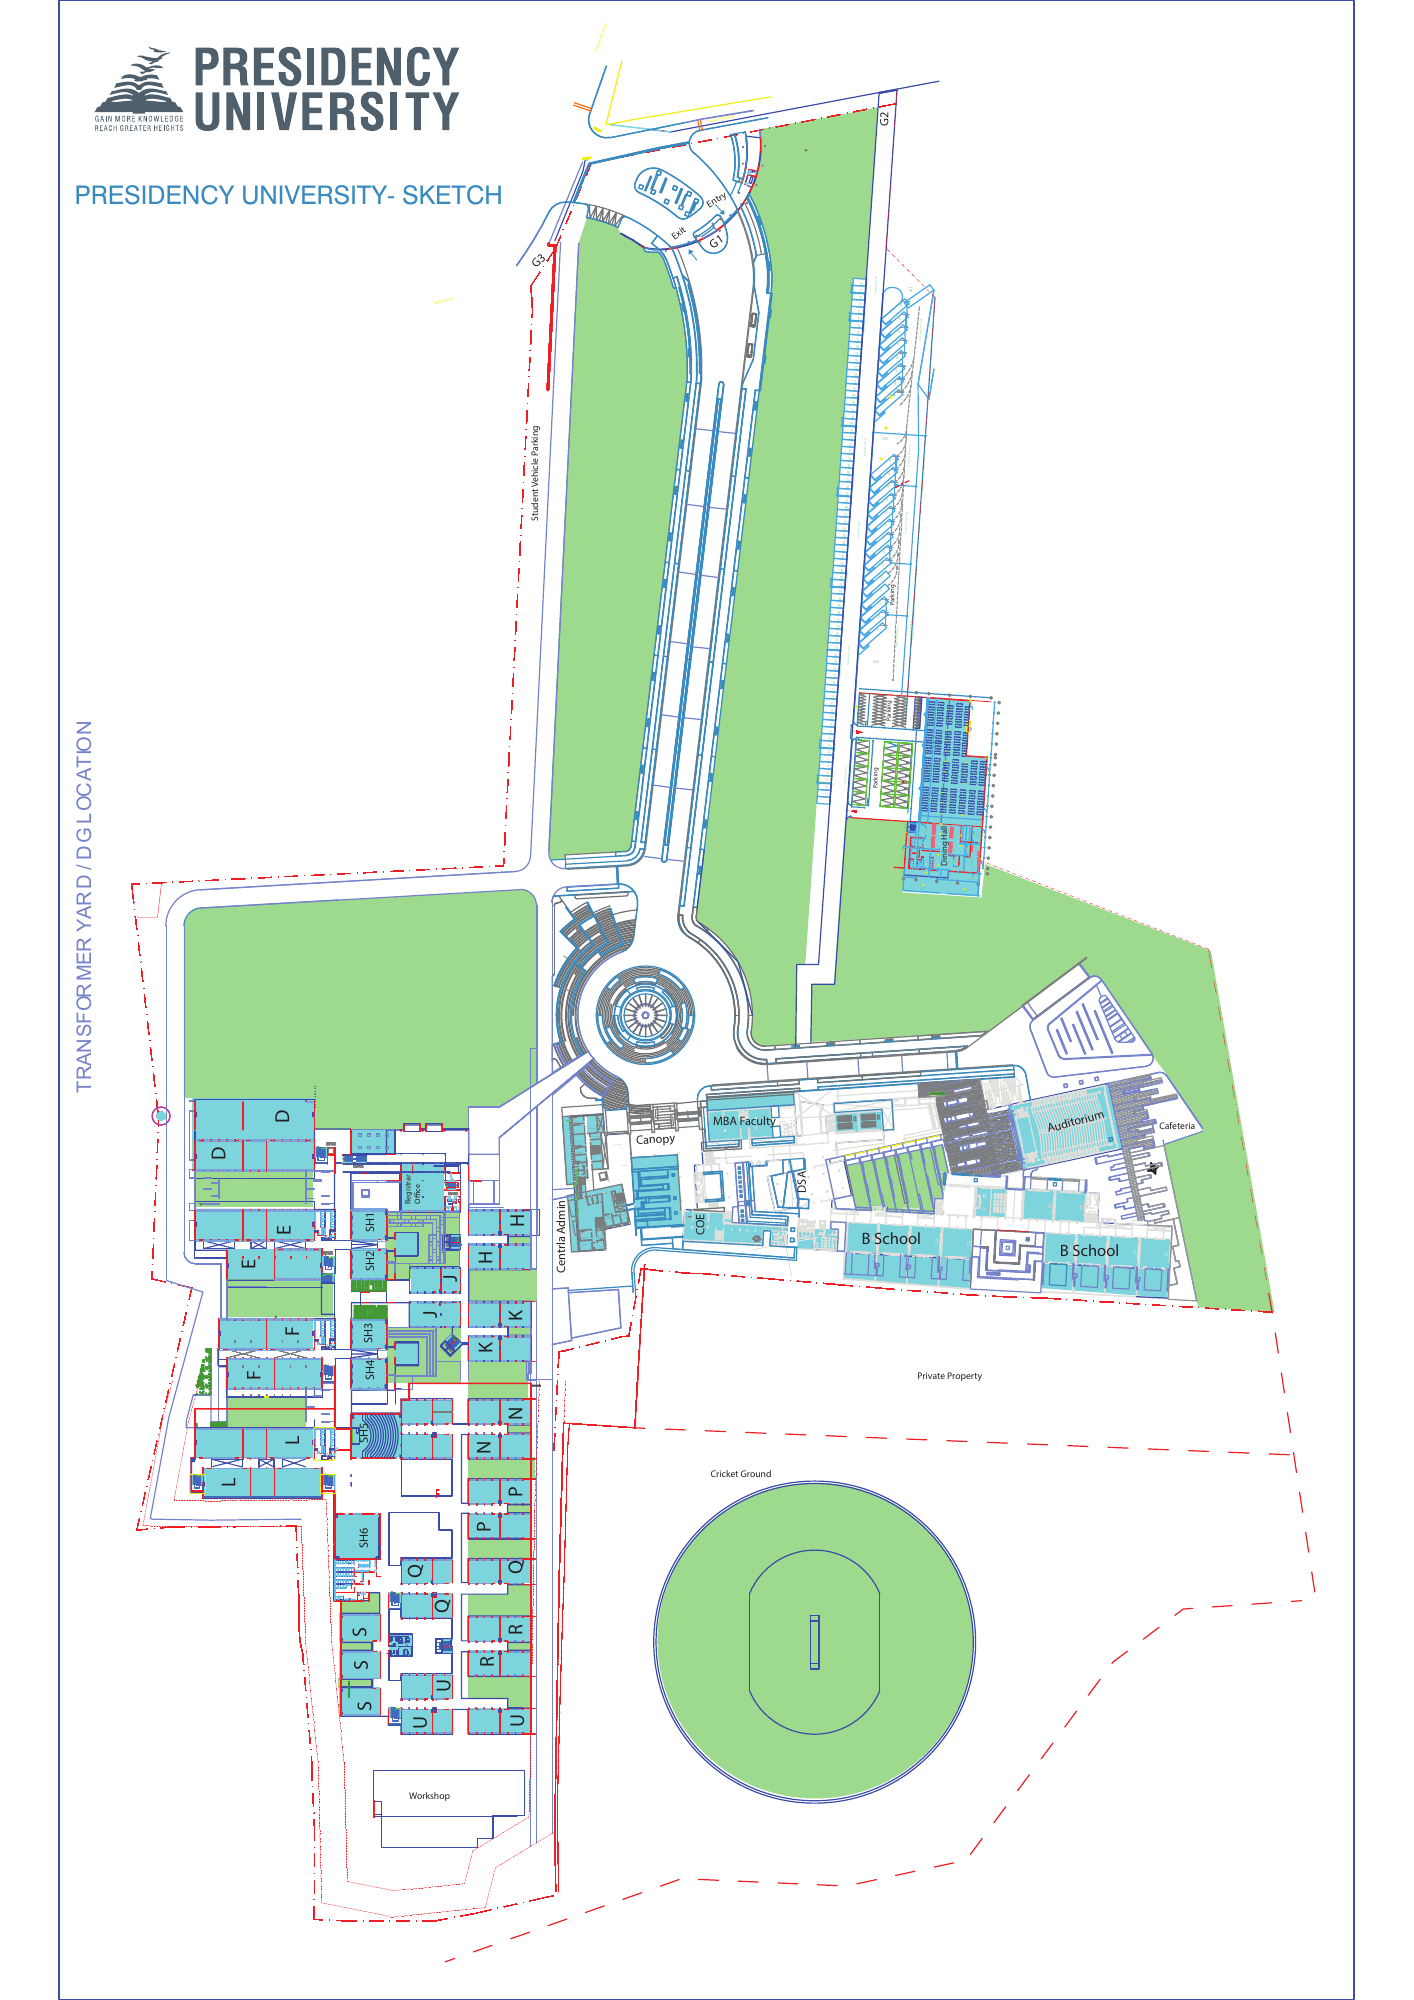
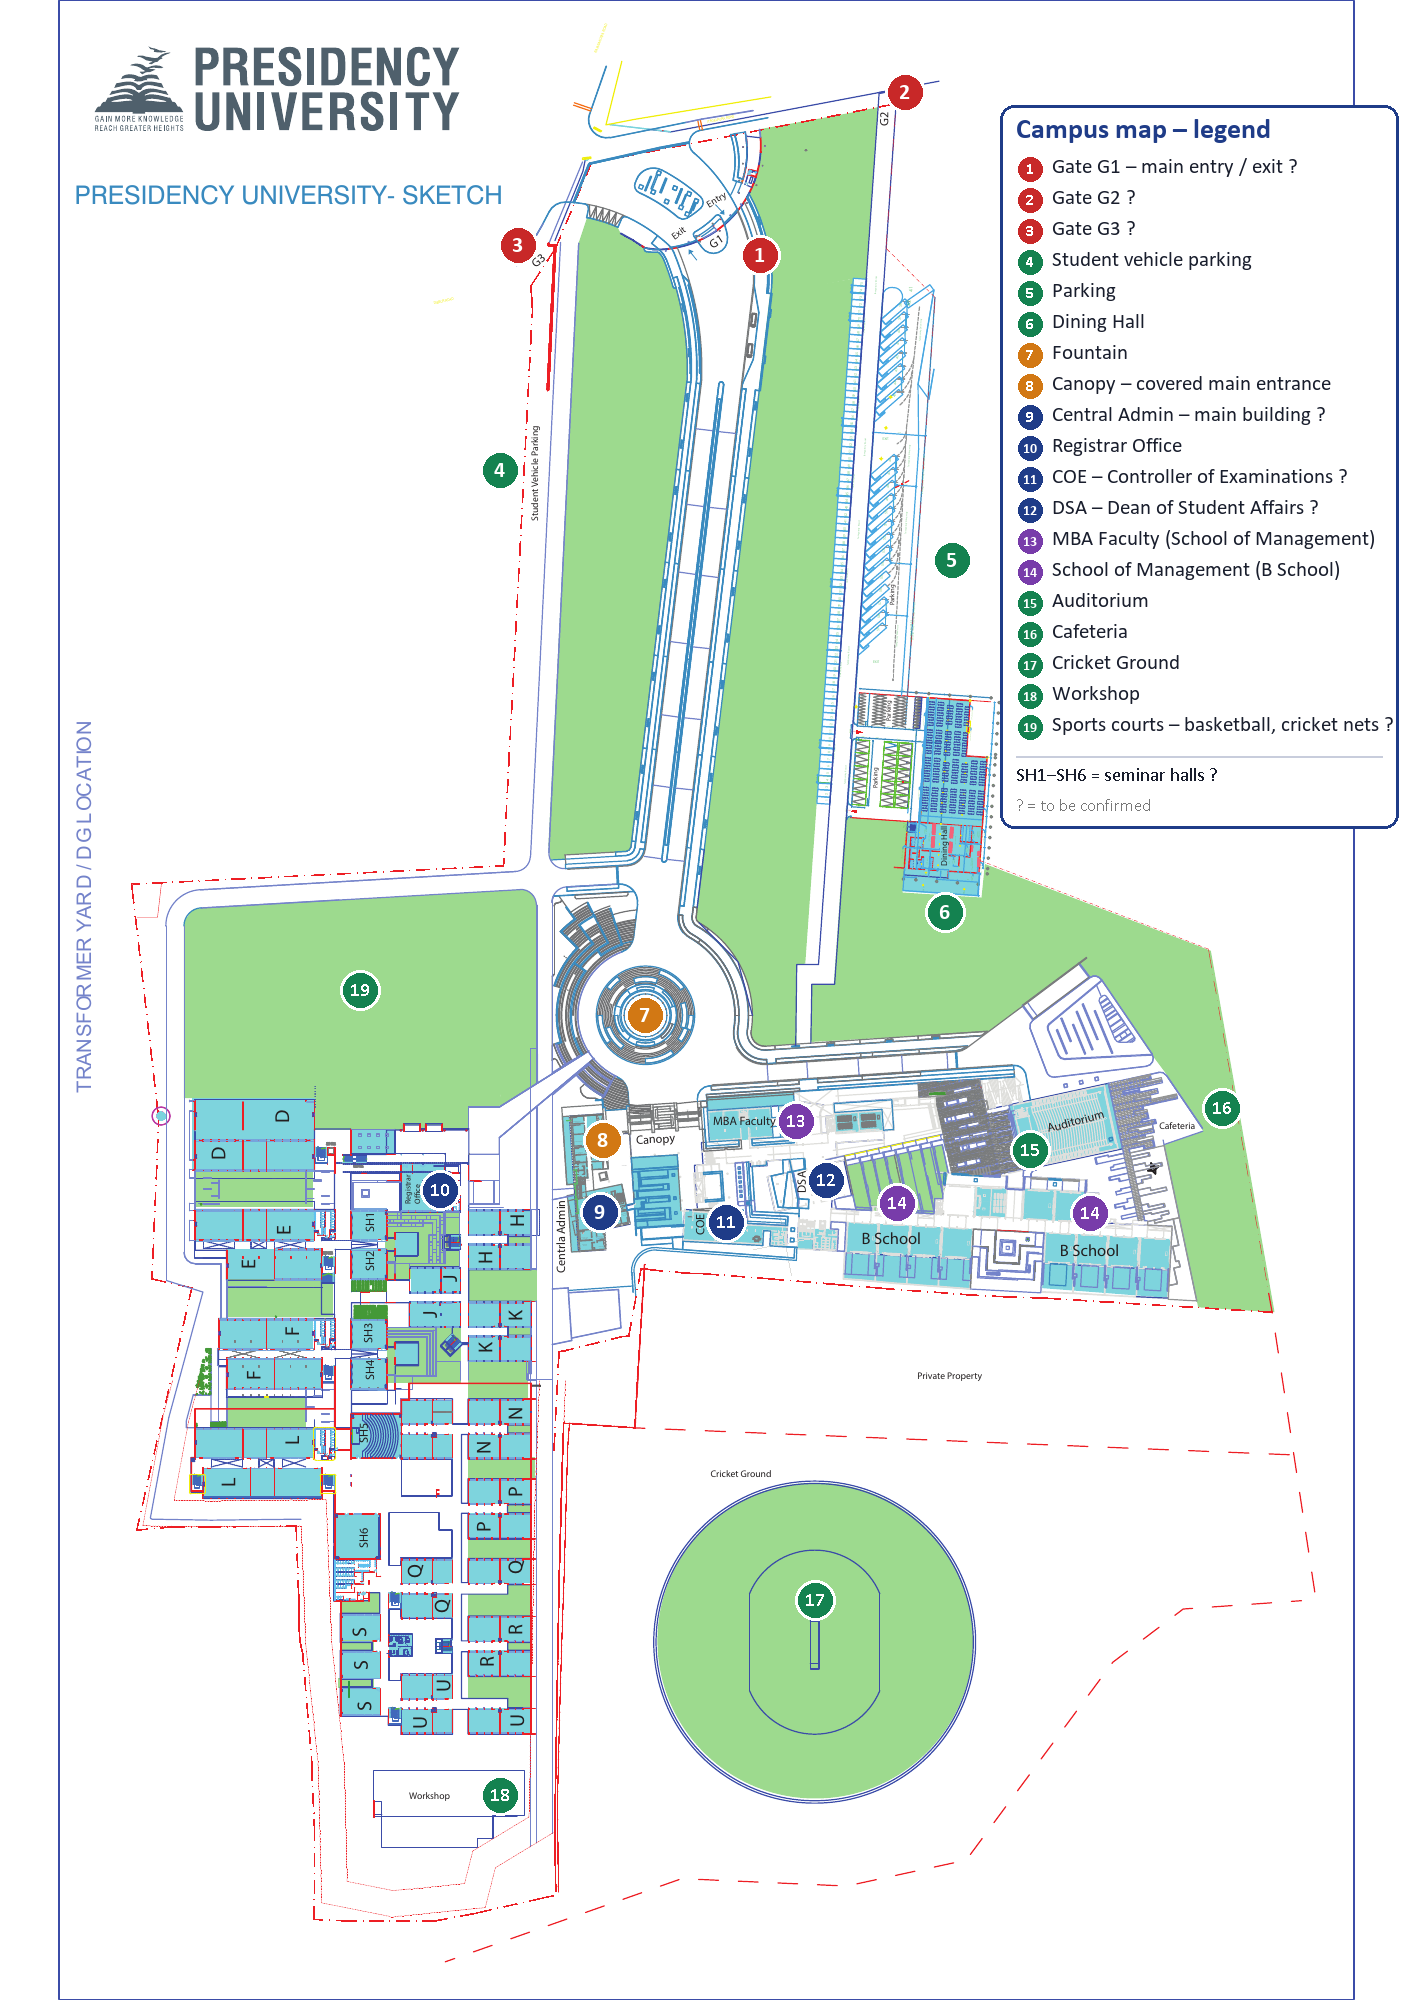
Show the labeled campus map in chat for navigation answers
- campus_map.png: labeled version (19 numbered places + legend, "?" = still to confirm)
- notebook 03: GET /map serves the map (X-API-Key required)
- frontend: answers with used_map show the map in a "Campus map" box
- README: /map endpoint and used_map field

diff --git a/frontend/app.py b/frontend/app.py
@@ -78,6 +78,16 @@ def reset_backend():
         pass
 
 
+@st.cache_data(ttl=300, show_spinner=False)
+def campus_map():
+    """The campus map image from the backend, or None if it has none."""
+    try:
+        r = requests.get(f"{BACKEND_URL}/map", headers=HEADERS, timeout=20)
+        return r.content if r.ok else None
+    except requests.RequestException:
+        return None
+
+
 # ---------------------------------------------------------------- rendering
 def show_message(m):
     if m["role"] == "user":
@@ -95,6 +105,11 @@ def show_message(m):
         if m.get("heard"):
             st.caption(f"🎤 Heard: “{m['heard']}”")
         st.markdown(m["text"])
+        if m.get("used_map"):
+            map_png = campus_map()
+            if map_png:
+                with st.expander("🗺 Campus map", expanded=True):
+                    st.image(map_png, width="stretch")
         sources = m.get("sources") or []
         shown = [s for s in sources if s["cited"]] or sources
         if shown:
@@ -164,7 +179,7 @@ if question is not None and (question or audio is not None):
             try:
                 r = ask_backend(question, image, audio)
                 reply = {"role": "assistant", "text": r["answer"], "sources": r["sources"], "timings": r["timings"],
-                         "heard": r["question"] if r.get("heard") else None}
+                         "heard": r["question"] if r.get("heard") else None, "used_map": r.get("used_map", False)}
             except requests.ConnectionError:
                 reply = {"role": "assistant", "error": "The answer server is offline. "
                                                        "(The GPU notebook 03_backend_api must be running.)"}

diff --git a/README.md b/README.md
@@ -41,7 +41,7 @@ the answer and cites `[1] [2]` the sources it used. The knowledge base can be up
 | Programme- and batch-aware | Asks for programme/batch when rules differ; prefers the newest regulation (e.g. 2025 over 2019) |
 | Image questions | Qwen3-VL reads the uploaded notice/timetable/assignment, transcribes it, then searches for the related rules |
 | Voice questions | Whisper large-v3-turbo turns a voice note into text (keeps the spoken language) |
-| Campus directions | For "where is …" questions the official campus map image is given to the model automatically |
+| Campus directions | For "where is …" questions the labeled campus map is given to the model automatically and shown under the answer in the chat page |
 | Daytime foot traffic | People counts from two campus videos (when recorded, how busy, most people seen at once) |
 | Follow-up questions | Chat history + query rewriting ("and for MBA?" becomes a full search query) |
 | Official vs unofficial | Every source is labelled (official website / official document / student photo / teacher recording …) |
@@ -90,7 +90,7 @@ embed with Qwen3-Embedding → save the FAISS index (`rag_index/`, rebuilt autom
 │   ├── 02_rag_chatbot.ipynb         the chatbot: index, search, voice, image, chat box, tests
 │   ├── 03_backend_api.ipynb         the chatbot as a web API (FastAPI) + public links (Cloudflare / Gradio)
 │   ├── pu_corpus.jsonl.gz           166,180 cleaned chunks (47.7 MB) – the knowledge base
-│   ├── campus_map.png               campus map shown to the model for "where is …" questions
+│   ├── campus_map.png               labeled campus map (numbered places + legend): read by the model and shown in chat for "where is …" questions
 │   └── corpus_stats.json            counts per source
 ├── frontend/                        the students' web page – Docker image for Data Lab / Portainer
 │   ├── app.py                       Streamlit chat page (text, photo, microphone, sources)
@@ -177,7 +177,8 @@ the GPU answers one question at a time, an API key, and upload limits (image 10 
 | Endpoint | Input | Output |
 |---|---|---|
 | `GET /health` | – | `status`, `model`, `chunks`, `busy`, `active_sessions` |
-| `POST /ask` | form `question`, `session_id`; files `image`, `audio` (all optional, but a question or voice note is required); header `X-API-Key` | `answer`, `sources` (title, url, kind, cited), `timings`, `session_id`, `heard` |
+| `POST /ask` | form `question`, `session_id`; files `image`, `audio` (all optional, but a question or voice note is required); header `X-API-Key` | `answer`, `sources` (title, url, kind, cited), `used_map`, `timings`, `session_id`, `heard` |
+| `GET /map` | header `X-API-Key` | `campus_map.png` – the chat page shows it under answers with `used_map: true` |
 | `POST /reset` | form `session_id`; header `X-API-Key` | forgets that student's history |
 
 Run order on the hub: notebook 01 (steps 1–4) → notebook 02 (builds the index) → **shut down 02's kernel** (two
